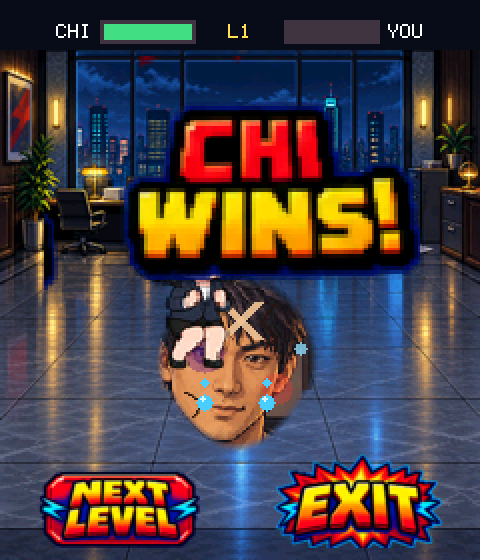
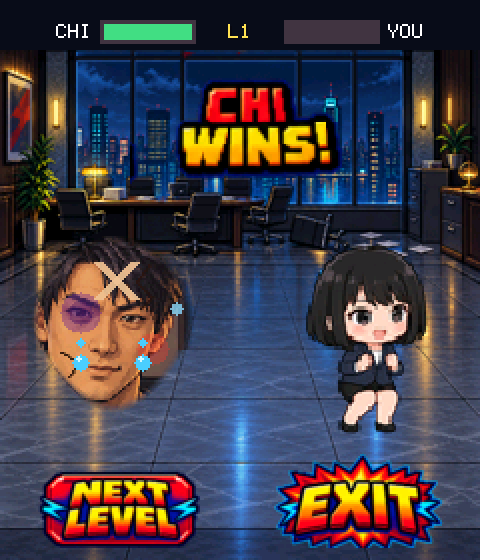
fix: separate result screen layout zones

diff --git a/main/main.cpp b/main/main.cpp
@@ -595,11 +595,11 @@ void draw_face_portrait(int64_t now) {
       weave_y;
   boss_draw_x = std::clamp(boss_draw_x, 58, kDisplayWidth - kFaceSize);
   boss_draw_y = std::clamp(boss_draw_y, 28, 164);
-  if (fight_state == FightState::ChiWins) {
+  if (fight_state == FightState::ChiWins ||
+      fight_state == FightState::FaceWins) {
     const int64_t defeated_age = now - round_state_since_us;
-    boss_draw_x = (kDisplayWidth - kFaceSize) / 2 +
-                  static_cast<int>(std::sin(now / 90000.0) * 3.0f);
-    boss_draw_y = 138 + static_cast<int>(
+    boss_draw_x = fight_state == FightState::ChiWins ? 12 : 140;
+    boss_draw_y = 118 + static_cast<int>(
         std::sin(defeated_age / 150000.0) * 2.0f);
   }
   if (fight_level >= 4 && fight_state == FightState::Fighting) {
@@ -770,17 +770,17 @@ void draw_fight_hud(int64_t now) {
     const float entrance = std::min(1.0f, age / 320000.0f);
     const float pulse = 1.0f + 0.035f * std::sin(age / 110000.0f);
     if (fight_state == FightState::ChiWins) {
-      const float scale = (0.72f + entrance * 0.88f) * pulse;
+      const float scale = (0.65f + entrance * 0.25f) * pulse;
       draw_centered_scaled_rgba(
           ui_chi_wins_rgba, ui_chi_wins_width, ui_chi_wins_height,
           static_cast<int>(ui_chi_wins_width * scale),
-          static_cast<int>(ui_chi_wins_height * scale), 28);
+          static_cast<int>(ui_chi_wins_height * scale), 26);
     } else {
-      const float scale = (0.72f + entrance * 0.78f) * pulse;
+      const float scale = (0.65f + entrance * 0.25f) * pulse;
       draw_centered_scaled_rgba(
           ui_face_wins_rgba, ui_face_wins_width, ui_face_wins_height,
           static_cast<int>(ui_face_wins_width * scale),
-          static_cast<int>(ui_face_wins_height * scale), 32);
+          static_cast<int>(ui_face_wins_height * scale), 26);
     }
     const bool won = fight_state == FightState::ChiWins;
     const uint8_t *left = won ? ui_next_level_rgba : ui_retry_rgba;
@@ -2126,8 +2126,11 @@ extern "C" void app_main(void) {
       int sprite_y = static_cast<int>(chi_y) + sprite_offset_y;
       if (fight_state == FightState::ChiWins) {
         const float celebration = (now - round_state_since_us) / 1000000.0f;
-        sprite_x = 70 + static_cast<int>(std::sin(celebration * 4.1f) * 62.0f);
-        sprite_y = 78 + static_cast<int>(std::sin(celebration * 6.7f) * 48.0f);
+        sprite_x = 128 + static_cast<int>(std::sin(celebration * 4.1f) * 8.0f);
+        sprite_y = 98 + static_cast<int>(std::sin(celebration * 6.7f) * 2.0f);
+      } else if (fight_state == FightState::FaceWins) {
+        sprite_x = 10;
+        sprite_y = 98;
       }
       draw_sprite(atlas, sprite_frame, atlas_frames,
                   sprite_x, sprite_y);

diff --git a/tools/screenshots/host_main.cpp b/tools/screenshots/host_main.cpp
@@ -61,8 +61,11 @@ void render_frame(int64_t now) {
     int sprite_y = static_cast<int>(chi_y) + sprite_offset_y;
     if (fight_state == FightState::ChiWins) {
       const float celebration = (now - round_state_since_us) / 1000000.0f;
-      sprite_x = 70 + static_cast<int>(std::sin(celebration * 4.1f) * 62.0f);
-      sprite_y = 78 + static_cast<int>(std::sin(celebration * 6.7f) * 48.0f);
+      sprite_x = 128 + static_cast<int>(std::sin(celebration * 4.1f) * 8.0f);
+      sprite_y = 98 + static_cast<int>(std::sin(celebration * 6.7f) * 2.0f);
+    } else if (fight_state == FightState::FaceWins) {
+      sprite_x = 10;
+      sprite_y = 98;
     }
     draw_sprite(atlas, sprite_frame, atlas_frames, sprite_x, sprite_y);
   }
